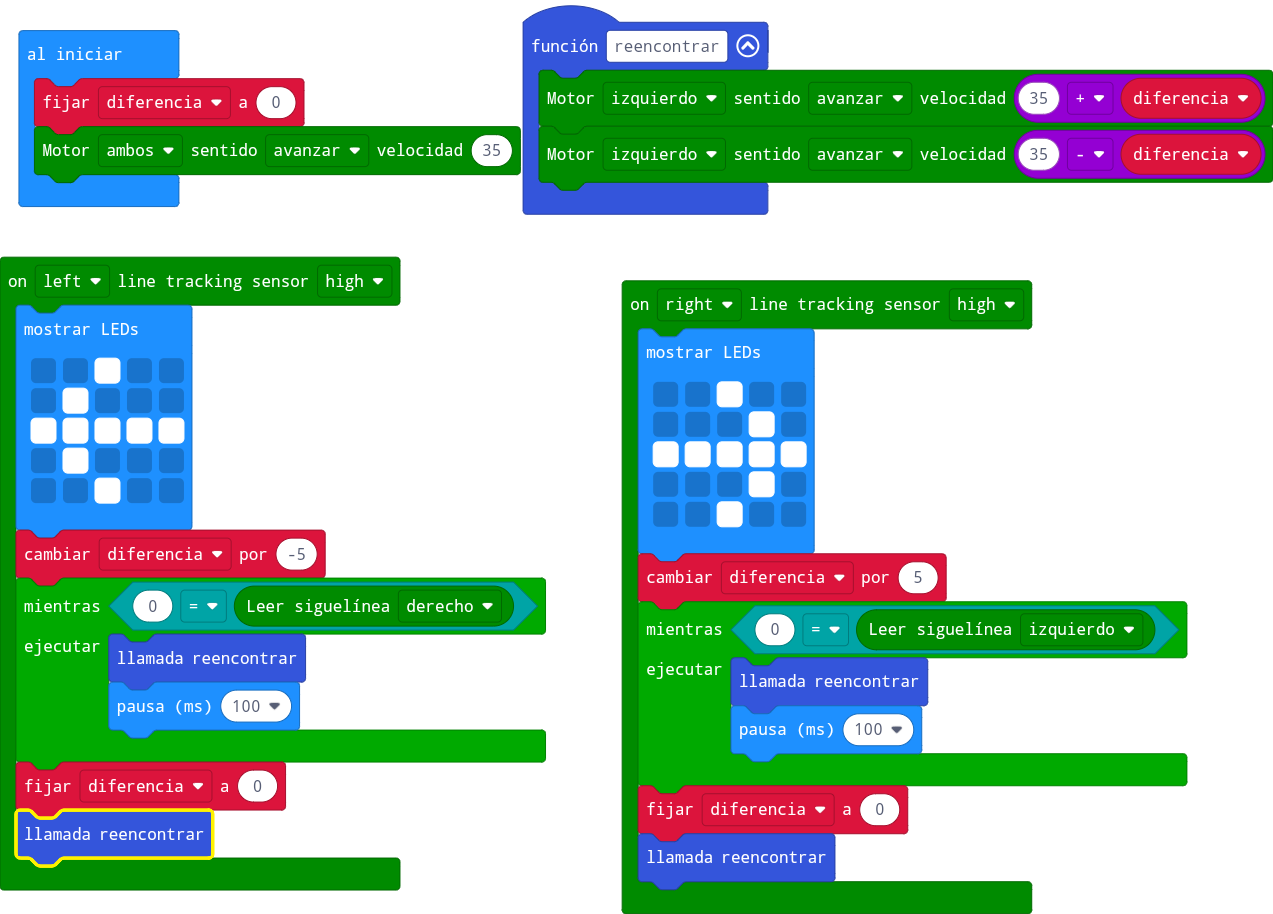
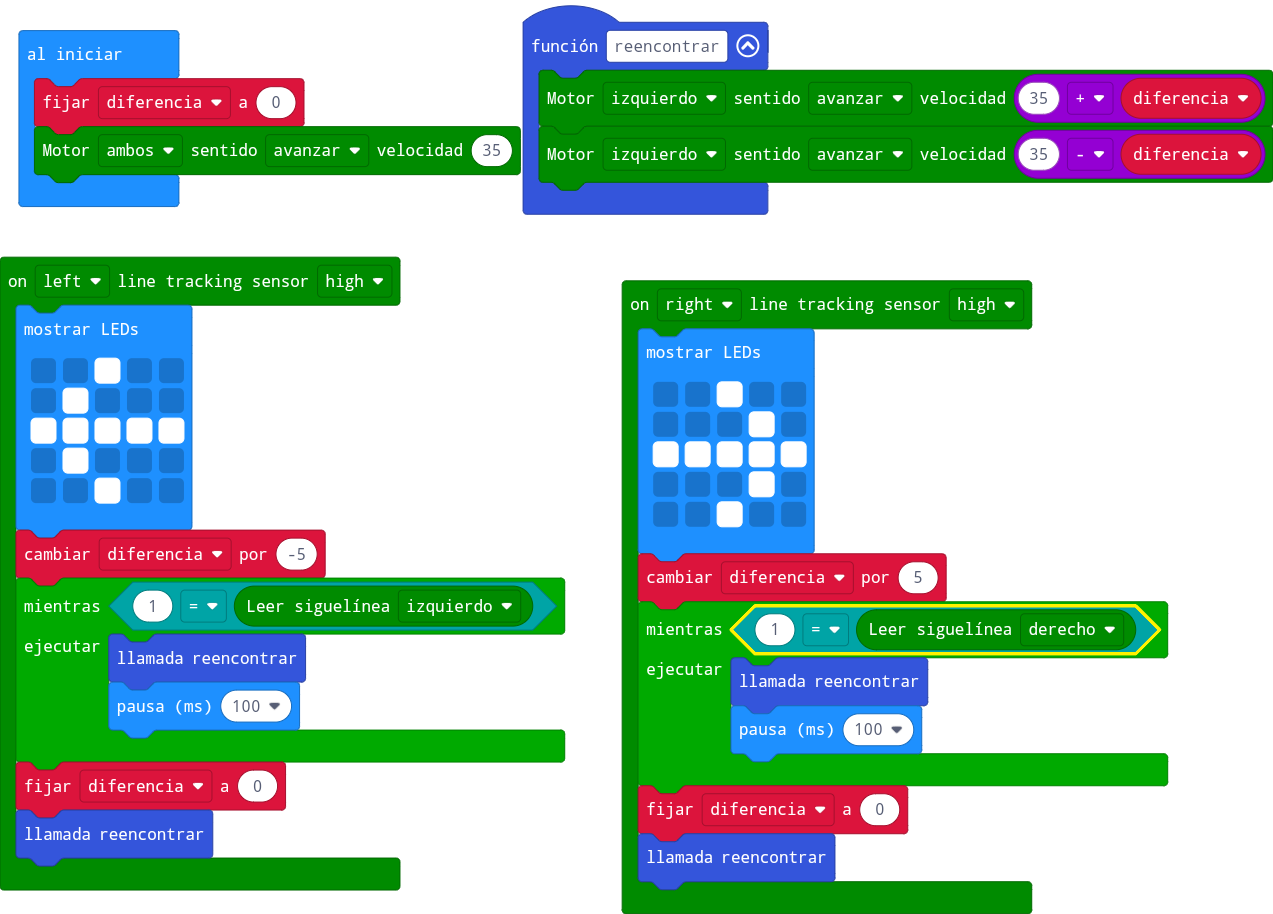
sensor contrario

diff --git a/main.ts b/main.ts
@@ -11,7 +11,7 @@ maqueen.ltEvent(maqueen.Patrol1.PatrolRight, maqueen.Voltage.High, function () {
         . . # . .
         `)
     diferencia += 5
-    while (0 == maqueen.readPatrol(maqueen.Patrol.PatrolLeft)) {
+    while (1 == maqueen.readPatrol(maqueen.Patrol.PatrolRight)) {
         reencontrar()
         basic.pause(100)
     }
@@ -27,7 +27,7 @@ maqueen.ltEvent(maqueen.Patrol1.PatrolLeft, maqueen.Voltage.High, function () {
         . . # . .
         `)
     diferencia += -5
-    while (0 == maqueen.readPatrol(maqueen.Patrol.PatrolRight)) {
+    while (1 == maqueen.readPatrol(maqueen.Patrol.PatrolLeft)) {
         reencontrar()
         basic.pause(100)
     }
